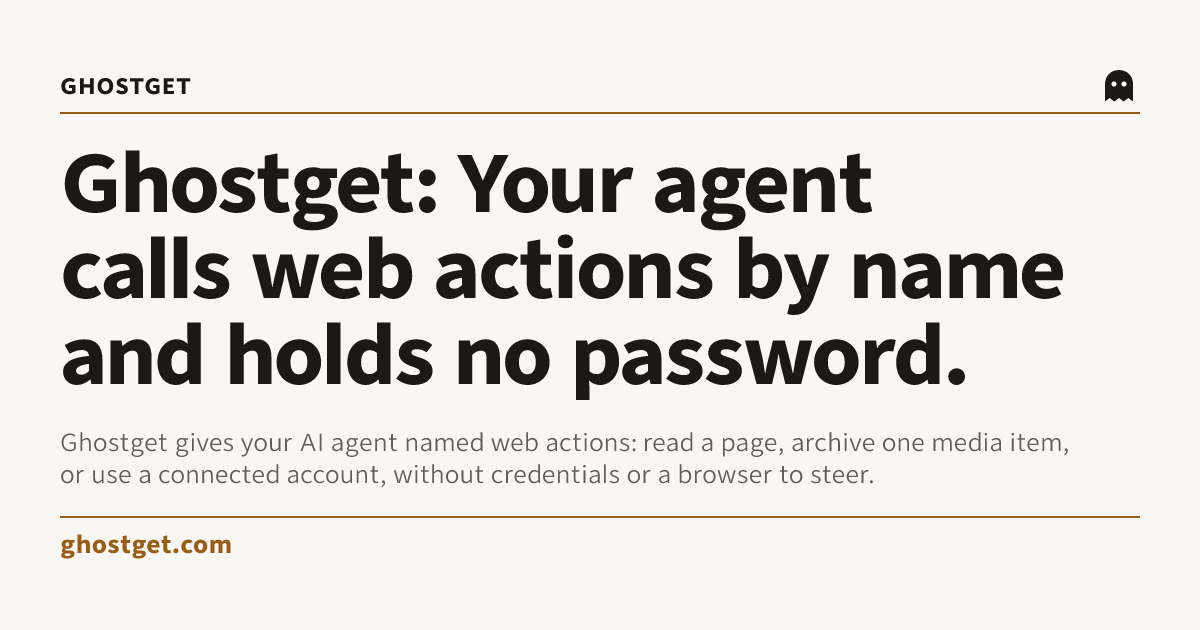
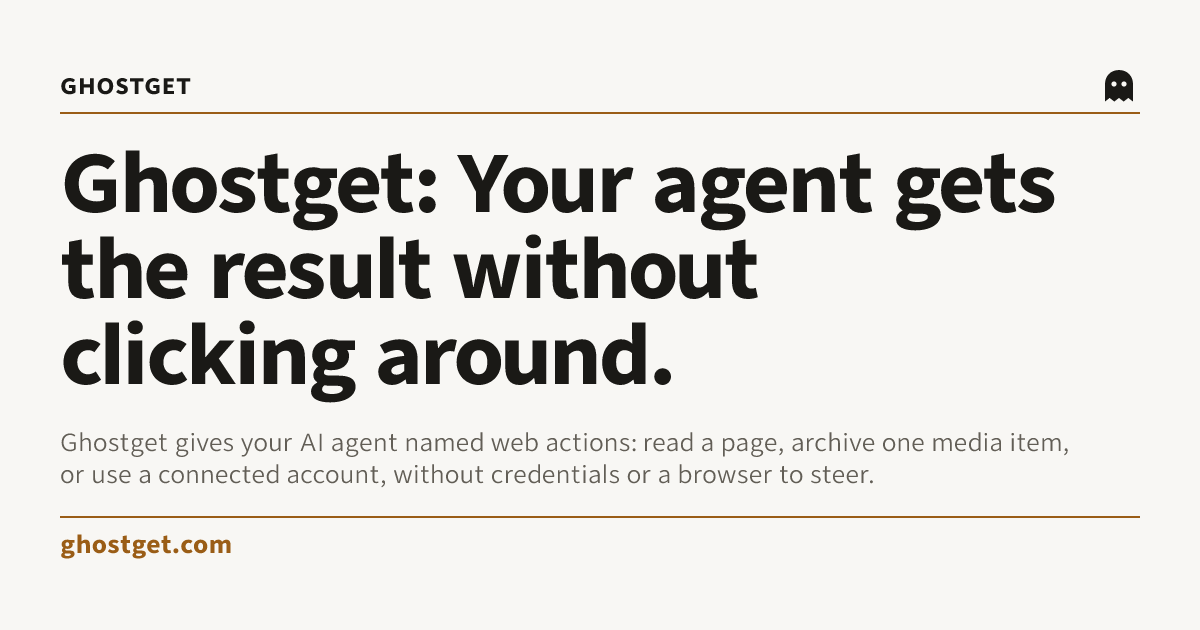
Shorten the homepage hero and drop the header appearance menu
The hero read as two stacked mechanisms ("calls web actions by name and
holds no password") rather than the outcome. The new line leads with what
the reader agent gets and names the slow path it replaces: "Your agent
gets the result without clicking around."

The header Light/Dark/System menu was the last desktop-foundation-style
menu surface on the site. Pages now follow the reader system appearance
through the existing color-scheme contract, the blocking appearance
bootstrap, menu CSS, controller, and composition helper are removed, and
each main skip target carries its tabindex in source.

Generated with [Devin](https://devin.ai)

Changed region(s): [[0.0308, 0.3619, 0.8942, 0.5127], [0.0308, 0.5127, 0.8017, 0.6333], [0.74, 0.2413, 0.8942, 0.3619]]

diff --git a/website/build.ts b/website/build.ts
@@ -1,4 +1,3 @@
-import { addDocumentAppearance } from "./appearance";
 import { releaseArchiveUrl } from "./github-release-artifact.mjs";
 import { snapshotMarketingPreset } from "./marketing-preset";
 import { createHash } from "node:crypto";
@@ -89,7 +88,7 @@ import {
 } from "./webmcp-registry";
 
 export const SITE_ORIGIN = "https://ghostget.com" as const;
-export const SITE_TITLE = "Ghostget: Your agent calls web actions by name and holds no password." as const;
+export const SITE_TITLE = "Ghostget: Your agent gets the result without clicking around." as const;
 export const SITE_DESCRIPTION =
   "Ghostget gives your AI agent named web actions: read a page, archive one media item, or use a connected account, without credentials or a browser to steer." as const;
 /** Alt text for the static `/og.png` card that `scripts/generate-og.tsx` renders from SITE_TITLE. */
@@ -493,7 +492,6 @@ export function agentSkillInstallCommands(
 
 type RenderOptions = Readonly<{
   analyticsAsset: string;
-  appearanceAsset: string;
   attestation: ProviderCapabilityAttestation;
   beeperFacts: BeeperPresentationFacts;
   claimsValues: Readonly<Record<string, string>>;
@@ -824,7 +822,6 @@ function renderTemplate(
   template: string,
   options: RenderOptions,
   page?: PublicPage,
-  format: "html" | "text" = "html",
   structuredDataOverride?: Readonly<Record<string, unknown>>,
 ): string {
   const { packageIdentity: identity } = options;
@@ -999,7 +996,7 @@ function renderTemplate(
   if (/\{\{[A-Z0-9_]+\}\}/u.test(rendered)) {
     throw new Error("The rendered page contains an unresolved template value.");
   }
-  return addDocumentAppearance(rendered, options.appearanceAsset, format);
+  return rendered;
 }
 
 /**
@@ -1134,7 +1131,6 @@ function renderBlogPages(
       }, renderBlogIndexMain()),
       options,
       indexPage,
-      "html",
       blogIndexJsonLd(BLOG_SITE, shared, HRANESS_ORGANIZATION_ID),
     ),
     indexable: true,
@@ -1162,7 +1158,7 @@ function renderBlogPages(
     }, renderBlogPostMain(post, fragment));
     pages.push({
       html: indexable
-        ? renderTemplate(filled, options, page, "html", blogPostJsonLd(post, BLOG_SITE, shared, HRANESS_ORGANIZATION_ID))
+        ? renderTemplate(filled, options, page, blogPostJsonLd(post, BLOG_SITE, shared, HRANESS_ORGANIZATION_ID))
         : renderTemplate(filled, options),
       indexable,
       page,
@@ -1219,7 +1215,6 @@ export async function buildWebsite(
     paperThemeCss,
     paletteSystemCss,
     paletteBridgeCss,
-    appearanceCss,
     uiCss,
     designKitFontsCss,
     designKitTypographyCss,
@@ -1244,7 +1239,6 @@ export async function buildWebsite(
     readFile(join(repositoryRoot, "website/vendor/paper-theme/paper-theme.css"), "utf8"),
     readFile(fileURLToPath(import.meta.resolve("@hraness/design-kit/palette-system.css")), "utf8"),
     readFile(fileURLToPath(import.meta.resolve("@hraness/design-kit/palette-bridge.css")), "utf8"),
-    readFile(fileURLToPath(import.meta.resolve("@hraness/design-kit/appearance-menu.css")), "utf8"),
     readUiStylesheet(),
     readFile(designKitFontsStylesPath, "utf8"),
     readFile(designKitTypographyStylesPath, "utf8"),
@@ -1274,7 +1268,6 @@ export async function buildWebsite(
         join(sourceRoot, "analytics.ts"),
         join(sourceRoot, "skill-install-command.ts"),
         join(sourceRoot, "foil.ts"),
-        join(sourceRoot, "appearance.ts"),
         join(sourceRoot, "status-page.ts"),
       ],
       format: "esm",
@@ -1294,7 +1287,7 @@ export async function buildWebsite(
   );
   const webmcpIndexValues = webmcpIndexTemplateValues(webmcpSnapshot);
   const allPages: readonly PublicPage[] = [...PUBLIC_PAGES, ...webmcpPages];
-  if (!browserBuild.success || browserBuild.outputs.length !== 5) {
+  if (!browserBuild.success || browserBuild.outputs.length !== 4) {
     const messages = browserBuild.logs.map((log) => log.message).join("\n");
     throw new Error(`Browser script build failed: ${messages || "no browser output"}`);
   }
@@ -1308,9 +1301,6 @@ export async function buildWebsite(
   const skillInstall = new Uint8Array(await scriptAsset("skill-install-command"));
   const foil = new Uint8Array(await scriptAsset("foil"));
   const statusPage = new Uint8Array(await scriptAsset("status-page"));
-  // The blocking head script is a classic script: wrap the shared ESM output in
-  // one strict-mode IIFE so it never leaks a top-level binding.
-  const appearance = new TextEncoder().encode(`(() => { "use strict";\n${new TextDecoder().decode(await scriptAsset("appearance"))}\n})();`);
   const identity = parsePackageIdentity(manifest);
   if (identity.release !== CONTENT_REVIEWED_RELEASE) {
     throw new Error(
@@ -1320,10 +1310,9 @@ export async function buildWebsite(
   const postHog = postHogEnvironment(environment);
   // The UI facade establishes its complete layer order before the static
   // marketing grammar and footer. Product tokens and composition follow them.
-  const compiledCss = `${uiCss}\n\n${designKitFontsCss.trim()}\n\n${designKitTypographyCss.trim()}\n\n${designKitProductMarketingCss.trim()}\n\n${designKitPlainSiteCss.trim()}\n\n${designKitPlainPublicationCss.trim()}\n\n${designKitStatusPageCss.trim()}\n\n${hranessSiteFooterCss.trim()}\n\n${paperThemeCss.trim()}\n\n${paletteSystemCss.trim()}\n\n${paletteBridgeCss.replace('@import "./palette-system.css";', "").trim()}\n\n${appearanceCss.trim()}\n\n${css.trimEnd()}\n\n${marketingPreset.files.get("product-marketing-preset.css")!.toString("utf8")}\n`;
+  const compiledCss = `${uiCss}\n\n${designKitFontsCss.trim()}\n\n${designKitTypographyCss.trim()}\n\n${designKitProductMarketingCss.trim()}\n\n${designKitPlainSiteCss.trim()}\n\n${designKitPlainPublicationCss.trim()}\n\n${designKitStatusPageCss.trim()}\n\n${hranessSiteFooterCss.trim()}\n\n${paperThemeCss.trim()}\n\n${paletteSystemCss.trim()}\n\n${paletteBridgeCss.replace('@import "./palette-system.css";', "").trim()}\n\n${css.trimEnd()}\n\n${marketingPreset.files.get("product-marketing-preset.css")!.toString("utf8")}\n`;
   const cssAsset = `/assets/styles-${contentHash(compiledCss)}.css`;
   const analyticsAsset = `/assets/analytics-${contentHash(analytics)}.js`;
-  const appearanceAsset = `/assets/appearance-${contentHash(appearance)}.js`;
   const skillInstallAsset = `/assets/skill-install-${contentHash(skillInstall)}.js`;
   const foilAsset = `/assets/foil-${contentHash(foil)}.js`;
   const statusPageAsset = `/assets/status-page-${contentHash(statusPage)}.js`;
@@ -1332,7 +1321,6 @@ export async function buildWebsite(
   const whatsappFacts = createWhatsAppPresentationFacts(providerDirectory, attestation);
   const renderOptions = {
     analyticsAsset,
-    appearanceAsset,
     attestation,
     beeperFacts,
     claimsValues: claimsTemplateValues(
@@ -1420,16 +1408,13 @@ export async function buildWebsite(
       ),
       renderOptions,
     )),
-    writeFile(join(outputRoot, "404.md"), renderTemplate(notFoundMarkdown, renderOptions, undefined, "text")),
+    writeFile(join(outputRoot, "404.md"), renderTemplate(notFoundMarkdown, renderOptions)),
     writeFile(join(outputRoot, "llms.txt"), renderTemplate(
       replaceRequired(llmsTemplate, "{{BLOG_LLMS_ENTRIES}}", renderBlogLlmsEntries(BLOG_SITE)),
       renderOptions,
-      undefined,
-      "text",
     )),
     writeFile(join(outputRoot, cssAsset.slice(1)), compiledCss),
     writeFile(join(outputRoot, analyticsAsset.slice(1)), analytics),
-    writeFile(join(outputRoot, appearanceAsset.slice(1)), appearance),
     writeFile(join(outputRoot, skillInstallAsset.slice(1)), skillInstall),
     writeFile(join(outputRoot, foilAsset.slice(1)), foil),
     writeFile(join(outputRoot, statusPageAsset.slice(1)), statusPage),

diff --git a/website/site.test.ts b/website/site.test.ts
@@ -374,13 +374,9 @@ describe("ghostget.com static site", () => {
     expect(builtCss).toContain('--hraness-marketing-display-font: var(--font-text)');
     expect(html).toContain('<main id="main" tabindex="-1">');
     for (const page of pages) {
-      const appearanceAsset = /<script src="(\/assets\/appearance-[a-f0-9]+\.js)"><\/script>/u.exec(page.html)?.[1];
-      expect(appearanceAsset).toBeDefined();
-      expect(page.html.indexOf(`<script src="${appearanceAsset}"></script>`)).toBeLessThan(page.html.indexOf('<link rel="stylesheet"'));
-      expect(page.html.match(/data-hraness-appearance-menu/gu)).toHaveLength(1);
-      expect(page.html.match(/role="menuitemradio"/gu)).toHaveLength(3);
+      expect(page.html).not.toContain("data-hraness-appearance-menu");
+      expect(page.html).not.toMatch(/appearance-[a-f0-9]+\.js/u);
       expect(page.html).toMatch(/<main\b[^>]*\bid="main"[^>]*\btabindex="-1"/u);
-      expect((await readFile(join(websiteRoot, "dist", appearanceAsset!.slice(1)))).byteLength).toBeGreaterThan(0);
     }
     expect(html).not.toContain('class="hraness-marketing-field"');
     for (const page of pages) {
@@ -396,7 +392,6 @@ describe("ghostget.com static site", () => {
       "@hraness/ui/components.css",
       "@hraness/ui/stylex.css",
       "@hraness/design-kit/syntax-highlighting.css",
-      "@hraness/design-kit/appearance-menu.css",
       "@hraness/site-footer/stylex.css",
     ]) {
       const stylesheet = (await readFile(
@@ -600,9 +595,10 @@ describe("ghostget.com static site", () => {
     // Task guides are the reader's next step after the FAQ; essays follow them.
     expect(html.indexOf(guidesSection ?? "")).toBeLessThan(html.indexOf(argumentsSection ?? ""));
     expect(html).toContain(
-      '<h1 class="hraness-marketing-hero__heading" id="brand-name">Your agent calls web actions by name <span class="hero-heading-accent">and holds no password.</span></h1>',
+      '<h1 class="hraness-marketing-hero__heading" id="brand-name">Your agent gets the result <span class="hero-heading-accent">without clicking around.</span></h1>',
     );
     expect(html).not.toContain("Give your coding agent bounded access to the web.");
+    expect(html).not.toContain("Your agent calls web actions by name and holds no password.");
     // The limit on uncertain writes: never resent, and unsettled until
     // separate evidence arrives. Home page and README state it in the same words.
     const indeterminateWriteBoundary =
@@ -659,7 +655,7 @@ describe("ghostget.com static site", () => {
     expect(preview).toContain('<link rel="canonical" href="https://ghostget.com/">');
     expect(preview).toContain(`<link rel="stylesheet" href="${cssAsset}">`);
     expect(preview).toContain('<body class="preview-body">');
-    expect(preview).toContain("Your agent calls web actions by name and holds no password.");
+    expect(preview).toContain("Your agent gets the result without clicking around.");
     expect(preview).not.toContain("Give your coding agent bounded access to the web.");
     expect(preview).toContain('class="preview-wordmark">Ghostget</p>');
     expect(preview).not.toMatch(/preview-field|preview-orbit|src="\/favicon\.svg"/u);

diff --git a/website/source/index.html b/website/source/index.html
@@ -6,7 +6,7 @@
     <meta name="color-scheme" content="light dark">
     <meta name="theme-color" content="#fbf1c7" media="(prefers-color-scheme: light)">
     <meta name="theme-color" content="#282828" media="(prefers-color-scheme: dark)">
-    <title>Ghostget: Your agent calls web actions by name and holds no password.</title>
+    <title>Ghostget: Your agent gets the result without clicking around.</title>
     <meta name="description" content="{{GHOSTGET_DESCRIPTION}}">
     <meta name="application-name" content="Ghostget">
     <meta name="generator" content="Bun 1.3.14">
@@ -20,7 +20,7 @@
 
     <meta property="og:type" content="website">
     <meta property="og:site_name" content="Ghostget">
-    <meta property="og:title" content="Ghostget: Your agent calls web actions by name and holds no password.">
+    <meta property="og:title" content="Ghostget: Your agent gets the result without clicking around.">
     <meta property="og:description" content="{{GHOSTGET_DESCRIPTION}}">
     <meta property="og:url" content="https://ghostget.com/">
     <meta property="og:image" content="https://ghostget.com/og.png">
@@ -29,7 +29,7 @@
     <meta property="og:image:height" content="630">
 
     <meta name="twitter:card" content="summary_large_image">
-    <meta name="twitter:title" content="Ghostget: Your agent calls web actions by name and holds no password.">
+    <meta name="twitter:title" content="Ghostget: Your agent gets the result without clicking around.">
     <meta name="twitter:description" content="{{GHOSTGET_DESCRIPTION}}">
     <meta name="twitter:image" content="https://ghostget.com/og.png">
     <meta name="twitter:image:alt" content="{{GHOSTGET_SOCIAL_IMAGE_ALT}}">
@@ -64,12 +64,12 @@
       </div>
     </header>
 
-    <main id="main">
+    <main id="main" tabindex="-1">
       <div class="hraness-marketing-page">
         <header aria-labelledby="brand-name" class="hraness-marketing-hero ghostget-product-hero" data-align="start" data-hraness-marketing="hero" data-tone="paper">
           <div class="hraness-marketing-hero__copy">
             <p class="home-eyebrow">Web actions for agents</p>
-            <h1 class="hraness-marketing-hero__heading" id="brand-name">Your agent calls web actions by name <span class="hero-heading-accent">and holds no password.</span></h1>
+            <h1 class="hraness-marketing-hero__heading" id="brand-name">Your agent gets the result <span class="hero-heading-accent">without clicking around.</span></h1>
             <p class="hraness-marketing-hero__summary hero-explainer">Install the CLI or tell your agent to. It reads a page, archives one media item, or acts in an account you connected, and returns the result instead of a browser to steer.</p>
             <div class="hraness-marketing-hero__actions">
               <a class="hraness-marketing-action" data-emphasis="primary" href="#start">Install Ghostget</a>

diff --git a/website/source/styles.css b/website/source/styles.css
@@ -3007,24 +3007,13 @@ body {
   }
 }
 
-/* One shared appearance controller serves every ordinary public header. */
-.ghostget-appearance[data-ready="false"] { display: none; }
-.ghostget-appearance { flex: 0 0 auto; margin-inline-start: auto; }
+/* Guide topbars keep their nav flush right and wrap it below the wordmark on
+ * narrow screens. */
 .topbar > nav { margin-inline-start: auto; }
-.ghostget-appearance .hraness-design-theme-toggle__trigger {
-  border-color: transparent;
-  box-shadow: var(--elevation-low);
-}
 @media (max-width: 48rem) {
   .hraness-marketing-header__actions { margin-inline-start: auto; }
   .topbar.guide-topbar { flex-direction: row; align-items: center; }
   .topbar > nav { order: 3; flex-basis: 100%; }
-}
-@media (forced-colors: active) {
-  .ghostget-appearance .hraness-design-theme-toggle__trigger {
-    border-color: ButtonText;
-    box-shadow: none;
-  }
 }
 
 /* Quiet homepage details: small mono eyebrows, one text link beside the
@@ -3534,8 +3523,3 @@ body {
   overflow-wrap: break-word;
 }
 
-@media (min-width: 48.01rem) {
-  .topbar .ghostget-appearance {
-    margin-inline-start: 0.5rem;
-  }
-}

diff --git a/website/source/provider-webmcp-site.html b/website/source/provider-webmcp-site.html
@@ -46,7 +46,7 @@
         <a href="https://github.com/hraness/ghostget">GitHub <span aria-hidden="true">↗</span></a>
       </nav>
     </header>
-    <main class="guide-main" id="main">
+    <main class="guide-main" id="main" tabindex="-1">
       <nav aria-label="Breadcrumb" class="breadcrumbs"><ol><li><a href="/">Ghostget</a></li><li><a href="/providers/">Providers</a></li><li aria-current="page">{{WEBMCP_NAME}}</li></ol></nav>
       <article class="guide-article">
         <header class="guide-hero provider-guide-hero">

diff --git a/website/source/docs-how-to-use-webmcp-sites.html b/website/source/docs-how-to-use-webmcp-sites.html
@@ -46,7 +46,7 @@
         <a href="https://github.com/hraness/ghostget">GitHub <span aria-hidden="true">↗</span></a>
       </nav>
     </header>
-    <main class="guide-main" id="main">
+    <main class="guide-main" id="main" tabindex="-1">
       <nav aria-label="Breadcrumb" class="breadcrumbs"><ol><li><a href="/">Ghostget</a></li><li><a href="/docs/">Docs</a></li><li aria-current="page">WebMCP sites</li></ol></nav>
       <article class="guide-article">
         <header class="guide-hero provider-guide-hero">

diff --git a/website/source/preview.html b/website/source/preview.html
@@ -19,7 +19,7 @@
         <p class="preview-wordmark">Ghostget</p>
         <div class="preview-copy">
           <p class="preview-eyebrow">Web actions for agents</p>
-          <h1 id="preview-title">Your agent calls web actions by name and holds no password.</h1>
+          <h1 id="preview-title">Your agent gets the result without clicking around.</h1>
           <p>
             Ghostget is a local CLI and TypeScript SDK. Each action returns only
             its result, and your agent never sees your logins.

diff --git a/website/source/docs-how-to-export-whatsapp.html b/website/source/docs-how-to-export-whatsapp.html
@@ -46,7 +46,7 @@
         <a href="https://github.com/hraness/ghostget">GitHub <span aria-hidden="true">↗</span></a>
       </nav>
     </header>
-    <main class="guide-main" id="main">
+    <main class="guide-main" id="main" tabindex="-1">
       <nav aria-label="Breadcrumb" class="breadcrumbs"><ol><li><a href="/">Ghostget</a></li><li><a href="/docs/">Docs</a></li><li aria-current="page">WhatsApp</li></ol></nav>
       <article class="guide-article">
         <header class="guide-hero provider-guide-hero">

diff --git a/website/source/docs-how-to-connect-beeper.html b/website/source/docs-how-to-connect-beeper.html
@@ -46,7 +46,7 @@
         <a href="https://github.com/hraness/ghostget">GitHub <span aria-hidden="true">↗</span></a>
       </nav>
     </header>
-    <main class="guide-main" id="main">
+    <main class="guide-main" id="main" tabindex="-1">
       <nav aria-label="Breadcrumb" class="breadcrumbs"><ol><li><a href="/">Ghostget</a></li><li><a href="/docs/">Docs</a></li><li aria-current="page">Beeper</li></ol></nav>
       <article class="guide-article">
         <header class="guide-hero provider-guide-hero">

diff --git a/website/source/compare-playwright-mcp.html b/website/source/compare-playwright-mcp.html
@@ -46,7 +46,7 @@
         <a href="https://github.com/hraness/ghostget">GitHub <span aria-hidden="true">↗</span></a>
       </nav>
     </header>
-    <main class="guide-main" id="main">
+    <main class="guide-main" id="main" tabindex="-1">
       <nav aria-label="Breadcrumb" class="breadcrumbs"><ol><li><a href="/">Ghostget</a></li><li><a href="/compare/">Comparisons</a></li><li aria-current="page">Playwright MCP</li></ol></nav>
       <article class="guide-article">
         <header class="guide-hero">

diff --git a/website/source/compare-agent-browser.html b/website/source/compare-agent-browser.html
@@ -46,7 +46,7 @@
         <a href="https://github.com/hraness/ghostget">GitHub <span aria-hidden="true">↗</span></a>
       </nav>
     </header>
-    <main class="guide-main" id="main">
+    <main class="guide-main" id="main" tabindex="-1">
       <nav aria-label="Breadcrumb" class="breadcrumbs"><ol><li><a href="/">Ghostget</a></li><li><a href="/compare/">Comparisons</a></li><li aria-current="page">agent-browser</li></ol></nav>
       <article class="guide-article">
         <header class="guide-hero">

diff --git a/website/source/compare-browser-use.html b/website/source/compare-browser-use.html
@@ -46,7 +46,7 @@
         <a href="https://github.com/hraness/ghostget">GitHub <span aria-hidden="true">↗</span></a>
       </nav>
     </header>
-    <main class="guide-main" id="main">
+    <main class="guide-main" id="main" tabindex="-1">
       <nav aria-label="Breadcrumb" class="breadcrumbs"><ol><li><a href="/">Ghostget</a></li><li><a href="/compare/">Comparisons</a></li><li aria-current="page">browser-use</li></ol></nav>
       <article class="guide-article">
         <header class="guide-hero">
